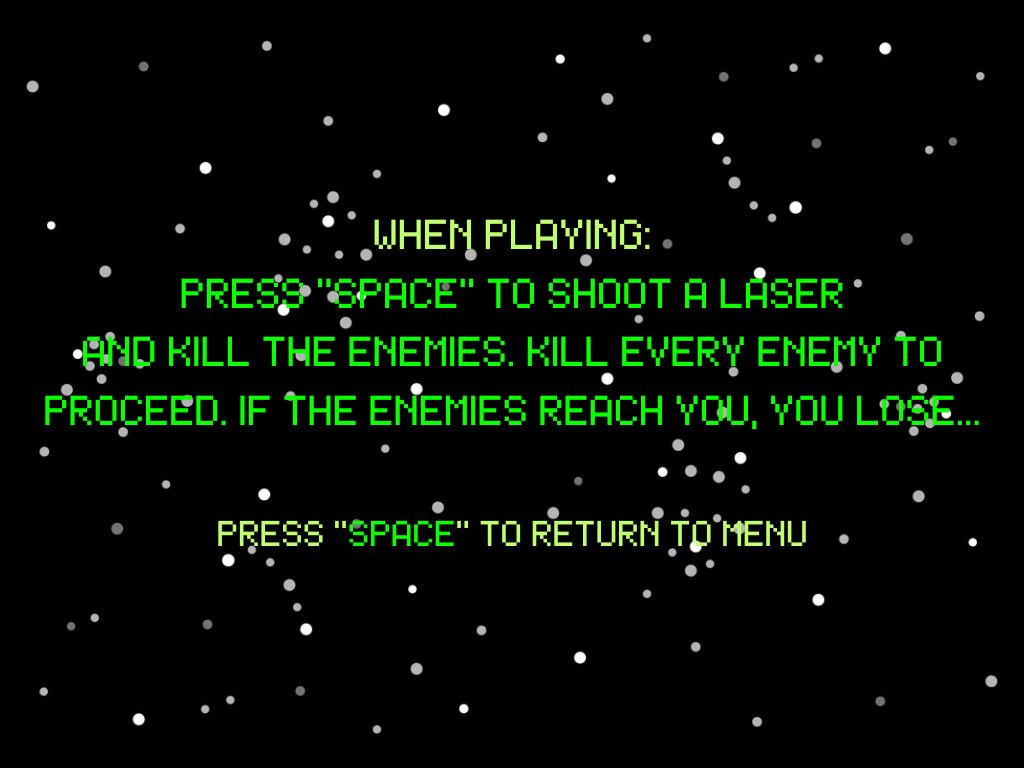
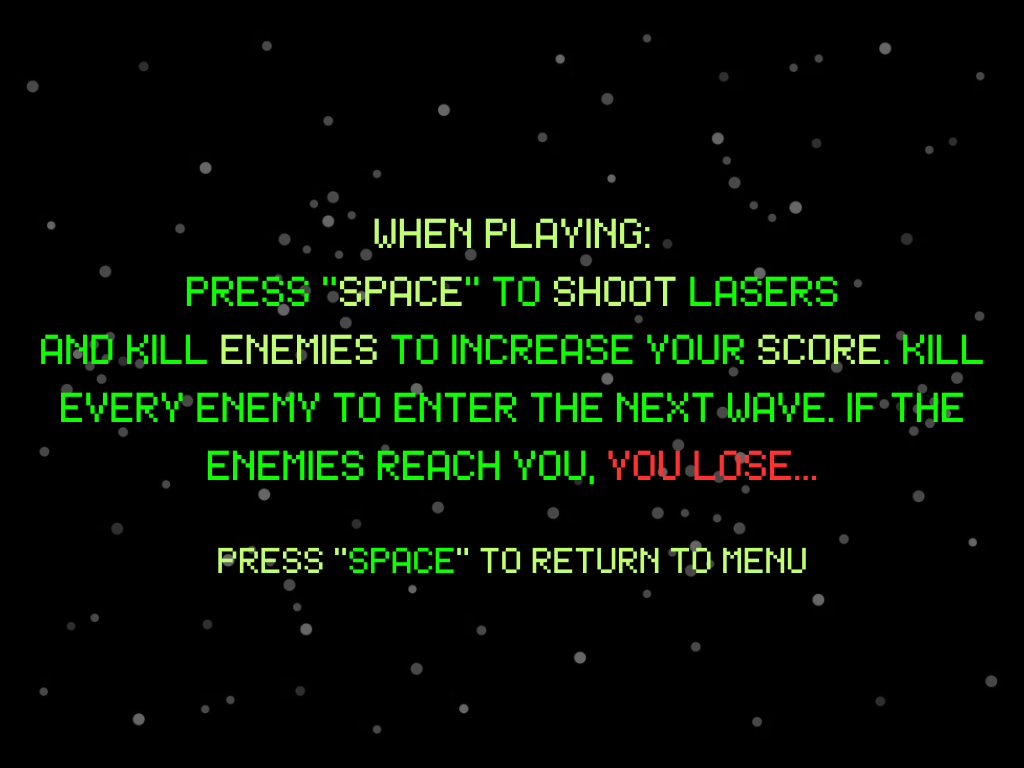
spaceinvadersnew

diff --git a/src/game.rs b/src/game.rs
@@ -3,6 +3,7 @@ use crate::ui::still_image::StillImage;
 use crate::utils::preload_image::TextureManager;
 use crate::utils::collision::check_collision;
 use crate::ui::text_button::TextButton;
+use ::rand::Rng;
 use crate::custom::player::Player;
 use crate::custom::bullet::Bullet;
 use crate::custom::enemy::Enemy;
@@ -66,28 +67,35 @@ let btn_return = TextButton::new(
 
 let mut lbl_score = Label::new(format!("Score:\n{}", score), 25.0, 125.0, 45);
 let mut lbl_highscore = Label::new(format!("Highscore:\n{}", highscore), 815.0, 125.0, 45);
+let mut rng = ::rand::rng();
 
 let mut bullets: Vec<Bullet> = Vec::new();
 let mut enemies: Vec<Enemy> = Vec::new();
-let columns = 6;
-let rows = 4;
+let mut columns = 0;
+let mut rows = 0;
 let spacing_x = screen_width() * 0.08;
 let spacing_y = screen_height() * 0.09;
 let mut enemy_dir = 0.2;
 let min_x = 230.0;
-let max_x = 730.0;
+let max_x = 740.0;
+
+let random_columns: i32 = rng.random_range(5..=6);
+let random_rows: i32 = rng.random_range(4..=6);
+
+columns = random_columns;
+rows = random_rows;
 
 for row in 0..rows {
     for col in 0..columns {
-        let enemy = Enemy::new(
+        let enemy = Enemy::from_preload(
+            tm.get_preload("assets/enemy.png").unwrap(),
             240.0 + col as f32 * spacing_x,
             25.0 + row as f32 * spacing_y,
             screen_width() * 0.055,
             screen_height() * 0.065,
-            "assets/enemy.png",
             true,
             1.0,
-        ).await;
+        );
         enemies.push(enemy);
     }
 }
@@ -160,7 +168,25 @@ let mut shoot_cooldown = 0.0;
         }
 
         if enemies.is_empty() {
-            return ("win".to_string(), tm, score, highscore);
+            let random_columns: i32 = rng.random_range(5..=6);
+            let random_rows: i32 = rng.random_range(3..=4);
+
+            columns = random_columns;
+            rows = random_rows;
+            for row in 0..rows {
+                for col in 0..columns {
+                    let enemy = Enemy::from_preload(
+                        tm.get_preload("assets/enemy.png").unwrap(),
+                        240.0 + col as f32 * spacing_x,
+                        25.0 + row as f32 * spacing_y,
+                        screen_width() * 0.055,
+                        screen_height() * 0.065,
+                        true,
+                        1.0,
+                    );
+                    enemies.push(enemy);
+                }
+            }
         }
     }
 
@@ -200,6 +226,7 @@ if is_key_down(KeyCode::Space) && get_time() - last_shot > 1.0 {
         }
 
     if btn_return.click() {
+        score = 0;
             return("menu".to_string(),tm, score, highscore);
         }
 

diff --git a/src/custom/enemy.rs b/src/custom/enemy.rs
@@ -25,6 +25,24 @@ impl Enemy {
         }
     }
 
+    pub fn from_preload(
+        preloaded: (Texture2D, Option<Vec<u8>>, String),
+        x: f32,
+        y: f32,
+        width: f32,
+        height: f32,
+        stretch: bool,
+        zoom: f32,
+    ) -> Self {
+        let image = StillImage::from_preload(preloaded, width, height, x, y, stretch, zoom);
+
+        Enemy {
+            image,
+            speed: 1.0,
+            move_dir: vec2(0.0, 0.0),
+        }
+    }
+
     pub fn get_image(&self) -> &StillImage {
         &self.image
     }
